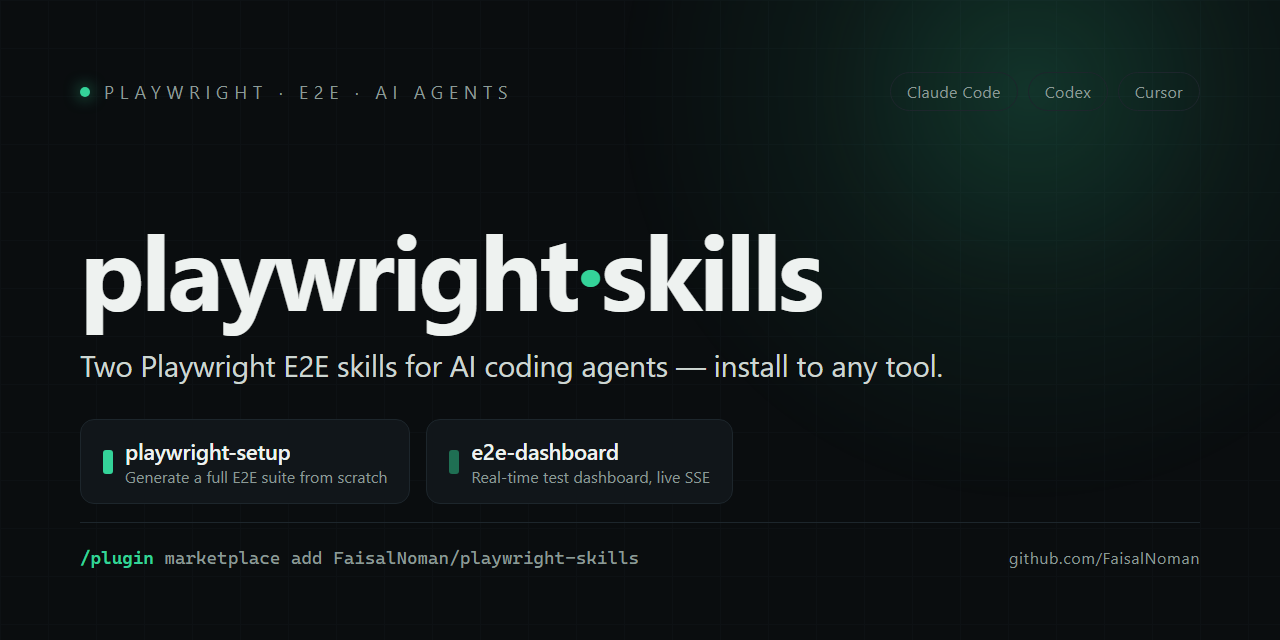
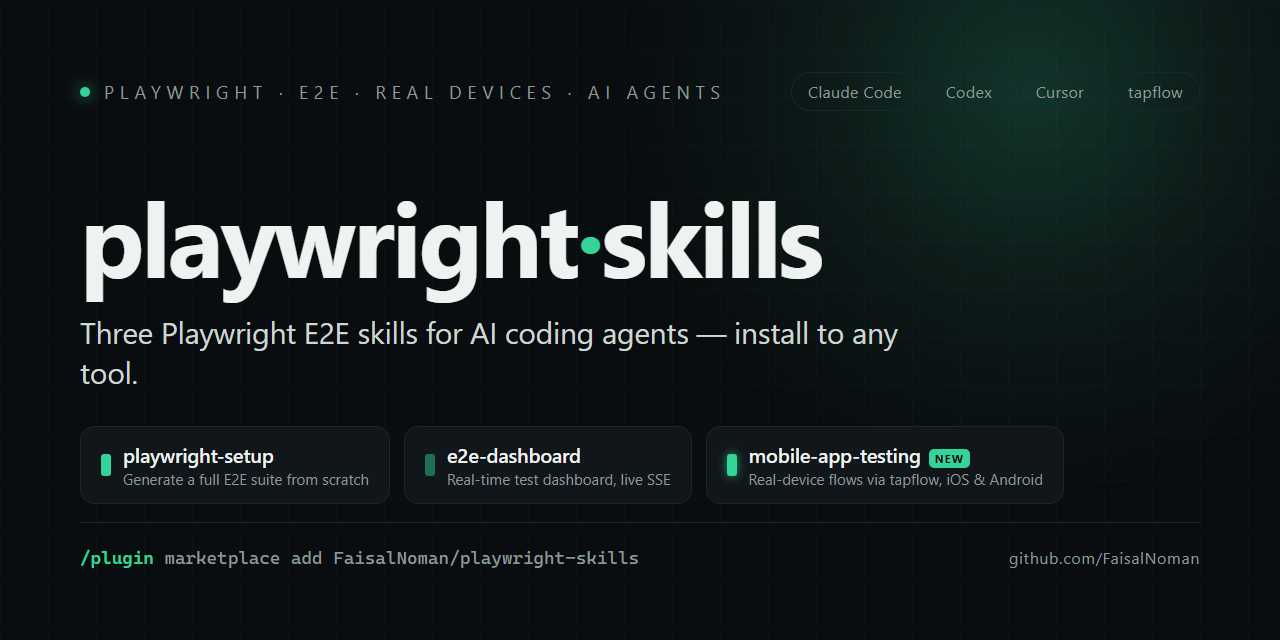
docs: add mobile-app-testing to social preview, embed in README
Social card only listed 2 skills; mobile-app-testing shipped since.
Adds a 3rd chip (NEW badge) + tapflow tool pill, regenerates the PNG,
and surfaces it at the top of README.md.

diff --git a/.github/social-preview.html b/.github/social-preview.html
@@ -57,16 +57,18 @@
   .tag{margin-top:26px;font-size:30px;font-weight:400;color:#cdd6d2;letter-spacing:-.01em;max-width:880px}
 
   /* skill chips */
-  .chips{display:flex;gap:16px;margin-top:34px}
+  .chips{display:flex;gap:14px;margin-top:34px}
   .chip{
     display:flex;align-items:center;gap:12px;
     background:var(--graphite);border:1px solid var(--line);border-radius:14px;
-    padding:16px 22px;
+    padding:14px 20px;
   }
-  .chip b{font-size:22px;font-weight:600;letter-spacing:-.01em}
-  .chip span{font-size:16px;color:var(--muted)}
-  .chip .sq{width:10px;height:24px;border-radius:3px;background:var(--accent)}
+  .chip b{font-size:20px;font-weight:600;letter-spacing:-.01em}
+  .chip span{font-size:15px;color:var(--muted)}
+  .chip .sq{width:10px;height:22px;border-radius:3px;background:var(--accent)}
   .chip .sq.alt{background:var(--accent-dim)}
+  .chip .sq.new{background:var(--accent);box-shadow:0 0 10px rgba(52,211,153,.7)}
+  .chip .badge{font-size:11px;letter-spacing:.1em;color:var(--ink);background:var(--accent);border-radius:5px;padding:2px 6px;margin-left:8px;font-weight:700;vertical-align:middle}
 
   /* bottom install line */
   .bottom{display:flex;align-items:center;justify-content:space-between;border-top:1px solid var(--line);padding-top:24px}
@@ -80,20 +82,22 @@
   <div class="spot"></div>
   <div class="frame">
     <div class="top">
-      <div class="kicker"><span class="dot"></span> Playwright · E2E · AI agents</div>
+      <div class="kicker"><span class="dot"></span> Playwright · E2E · Real devices · AI agents</div>
       <div class="tools">
         <div class="tool">Claude Code</div>
         <div class="tool">Codex</div>
         <div class="tool">Cursor</div>
+        <div class="tool">tapflow</div>
       </div>
     </div>
 
     <div class="lead">
       <h1>playwright<span class="accent">·</span>skills</h1>
-      <p class="tag">Two Playwright E2E skills for AI coding agents — install to any tool.</p>
+      <p class="tag">Three Playwright E2E skills for AI coding agents — install to any tool.</p>
       <div class="chips">
         <div class="chip"><span class="sq"></span><div><b>playwright-setup</b><br><span>Generate a full E2E suite from scratch</span></div></div>
         <div class="chip"><span class="sq alt"></span><div><b>e2e-dashboard</b><br><span>Real-time test dashboard, live SSE</span></div></div>
+        <div class="chip"><span class="sq new"></span><div><b>mobile-app-testing<span class="badge">NEW</span></b><br><span>Real-device flows via tapflow, iOS &amp; Android</span></div></div>
       </div>
     </div>
 

diff --git a/README.md b/README.md
@@ -1,5 +1,7 @@
 # playwright-skills
 
+![playwright-skills social preview](.github/social-preview.png)
+
 <img width="960" height="540" alt="E2E-Dashboard-demo-optimized" src="https://github.com/user-attachments/assets/56603d83-e9e8-4d9d-a470-bd98d539ea6c" />
 
 Two Playwright E2E skills for AI coding agents, shippable to **Claude Code**, **Codex CLI**, and **Cursor**.
